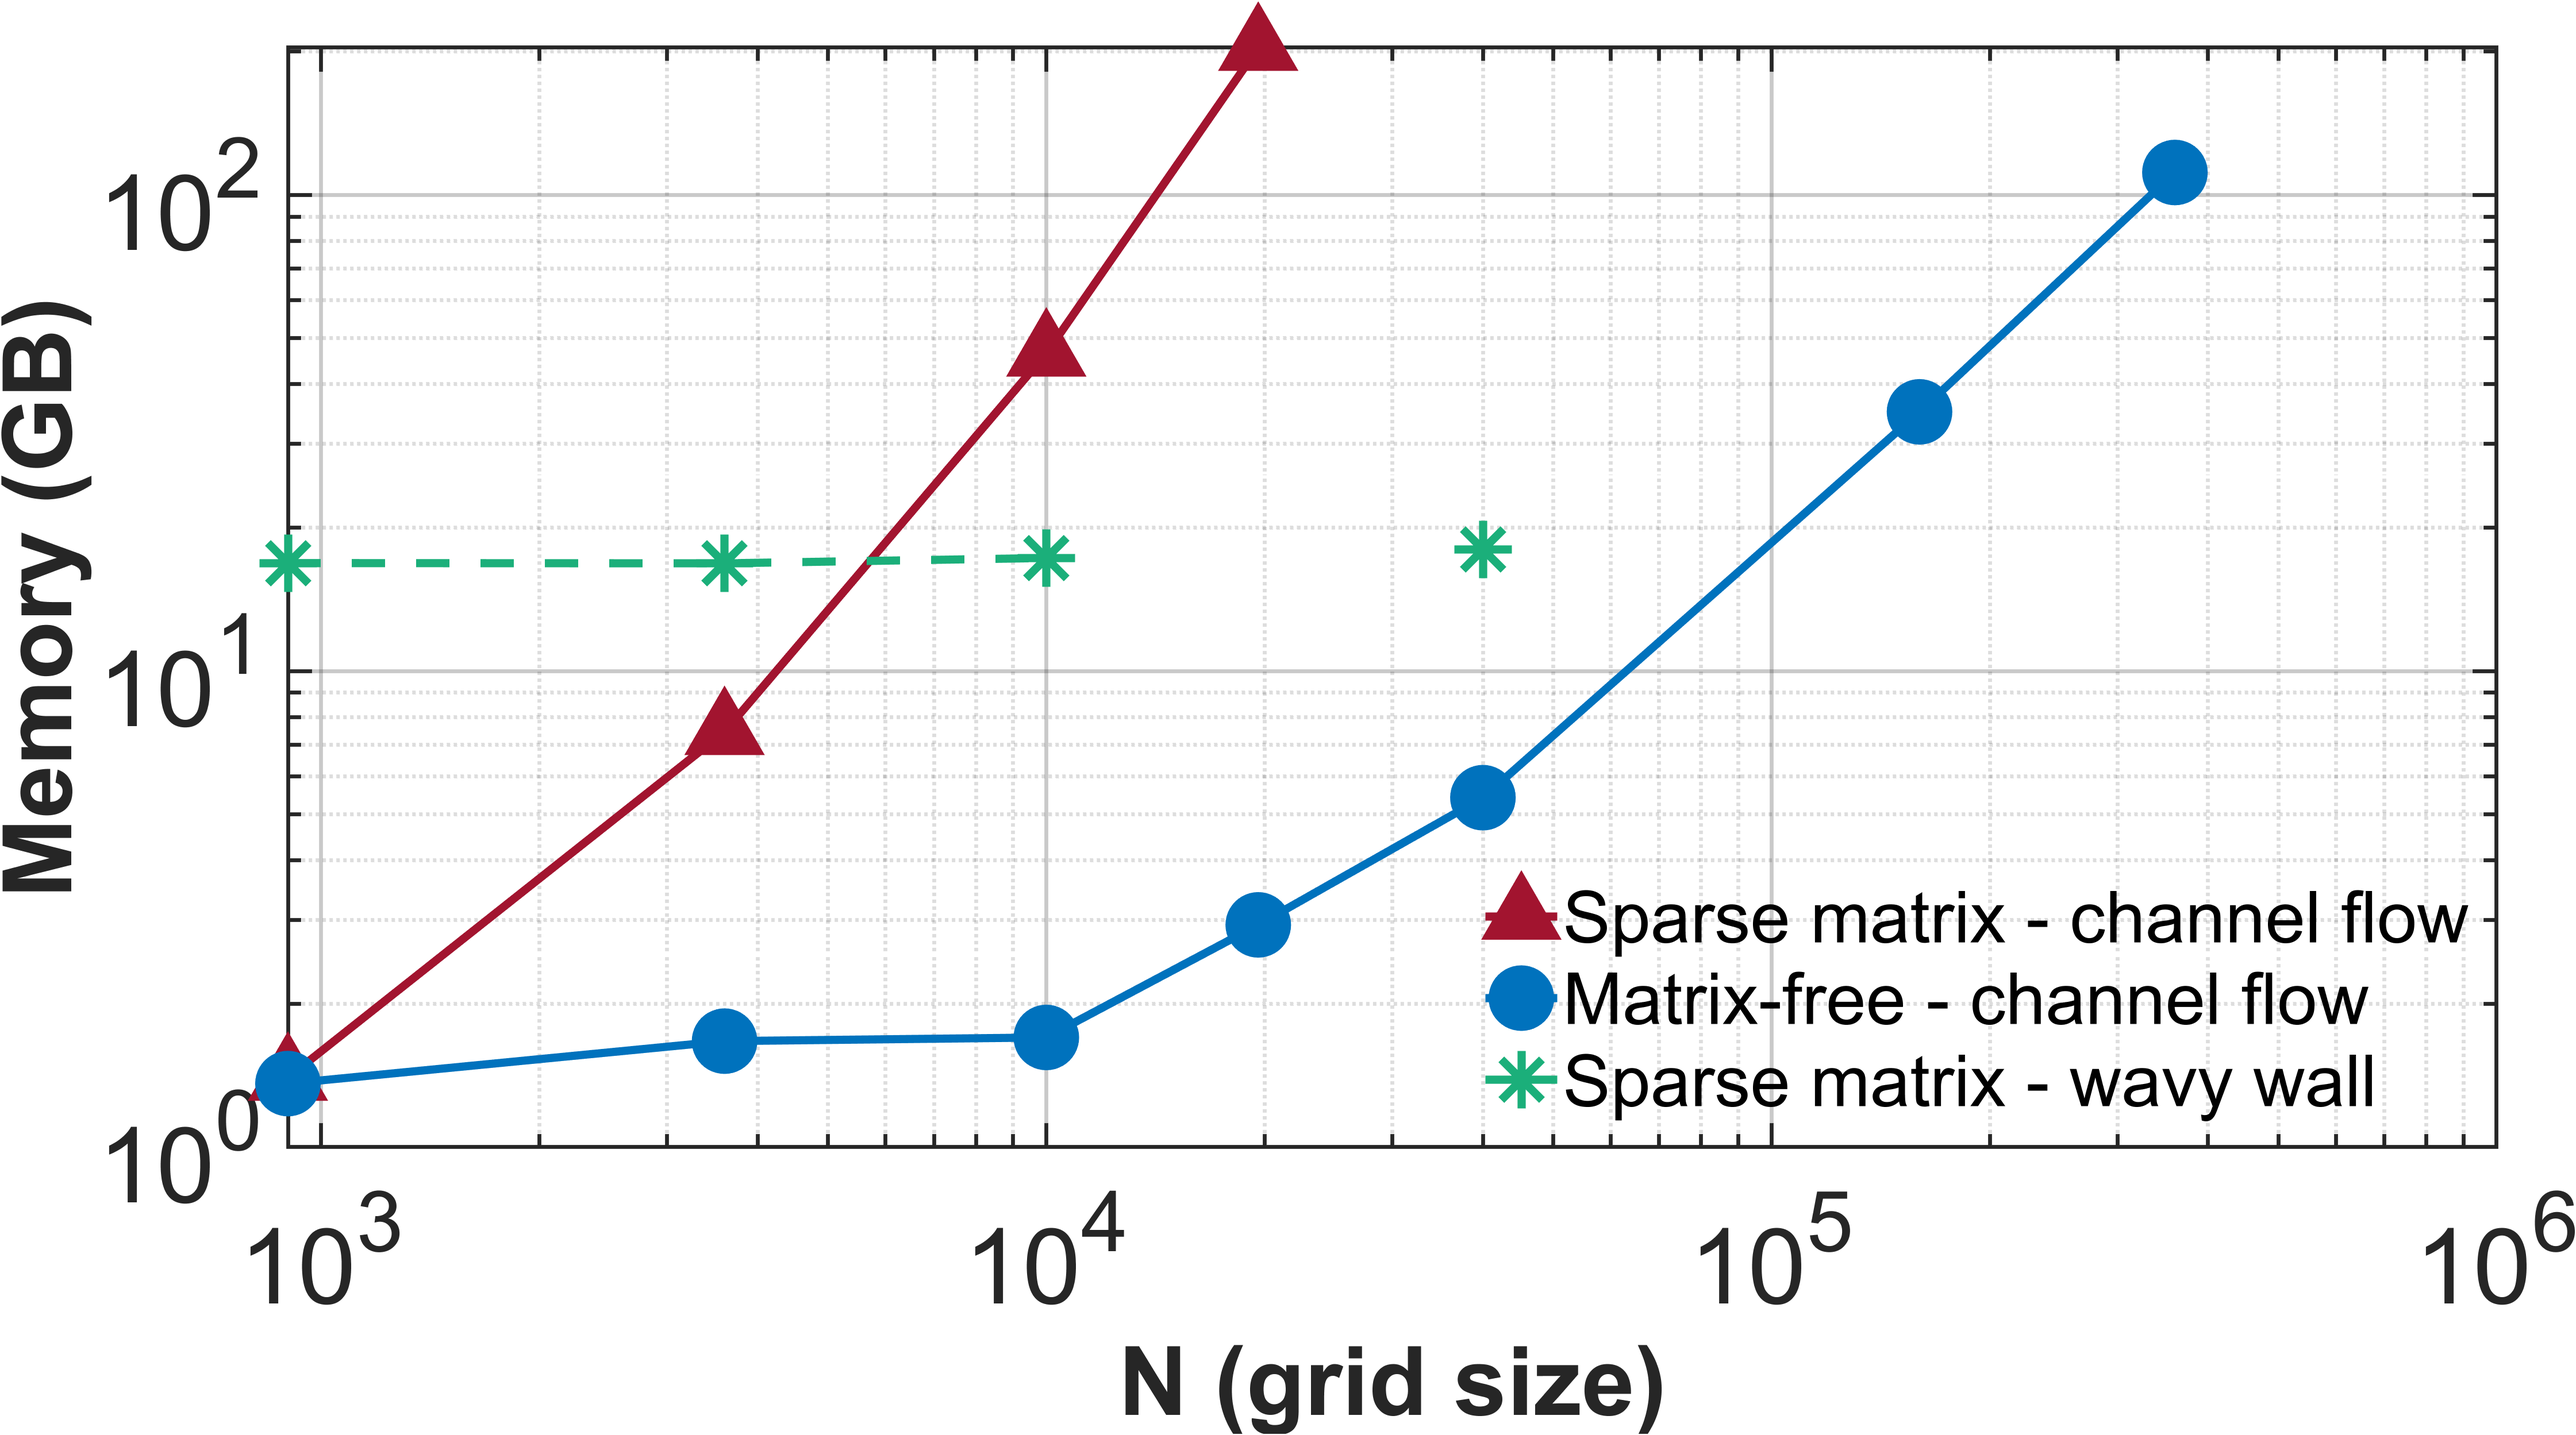
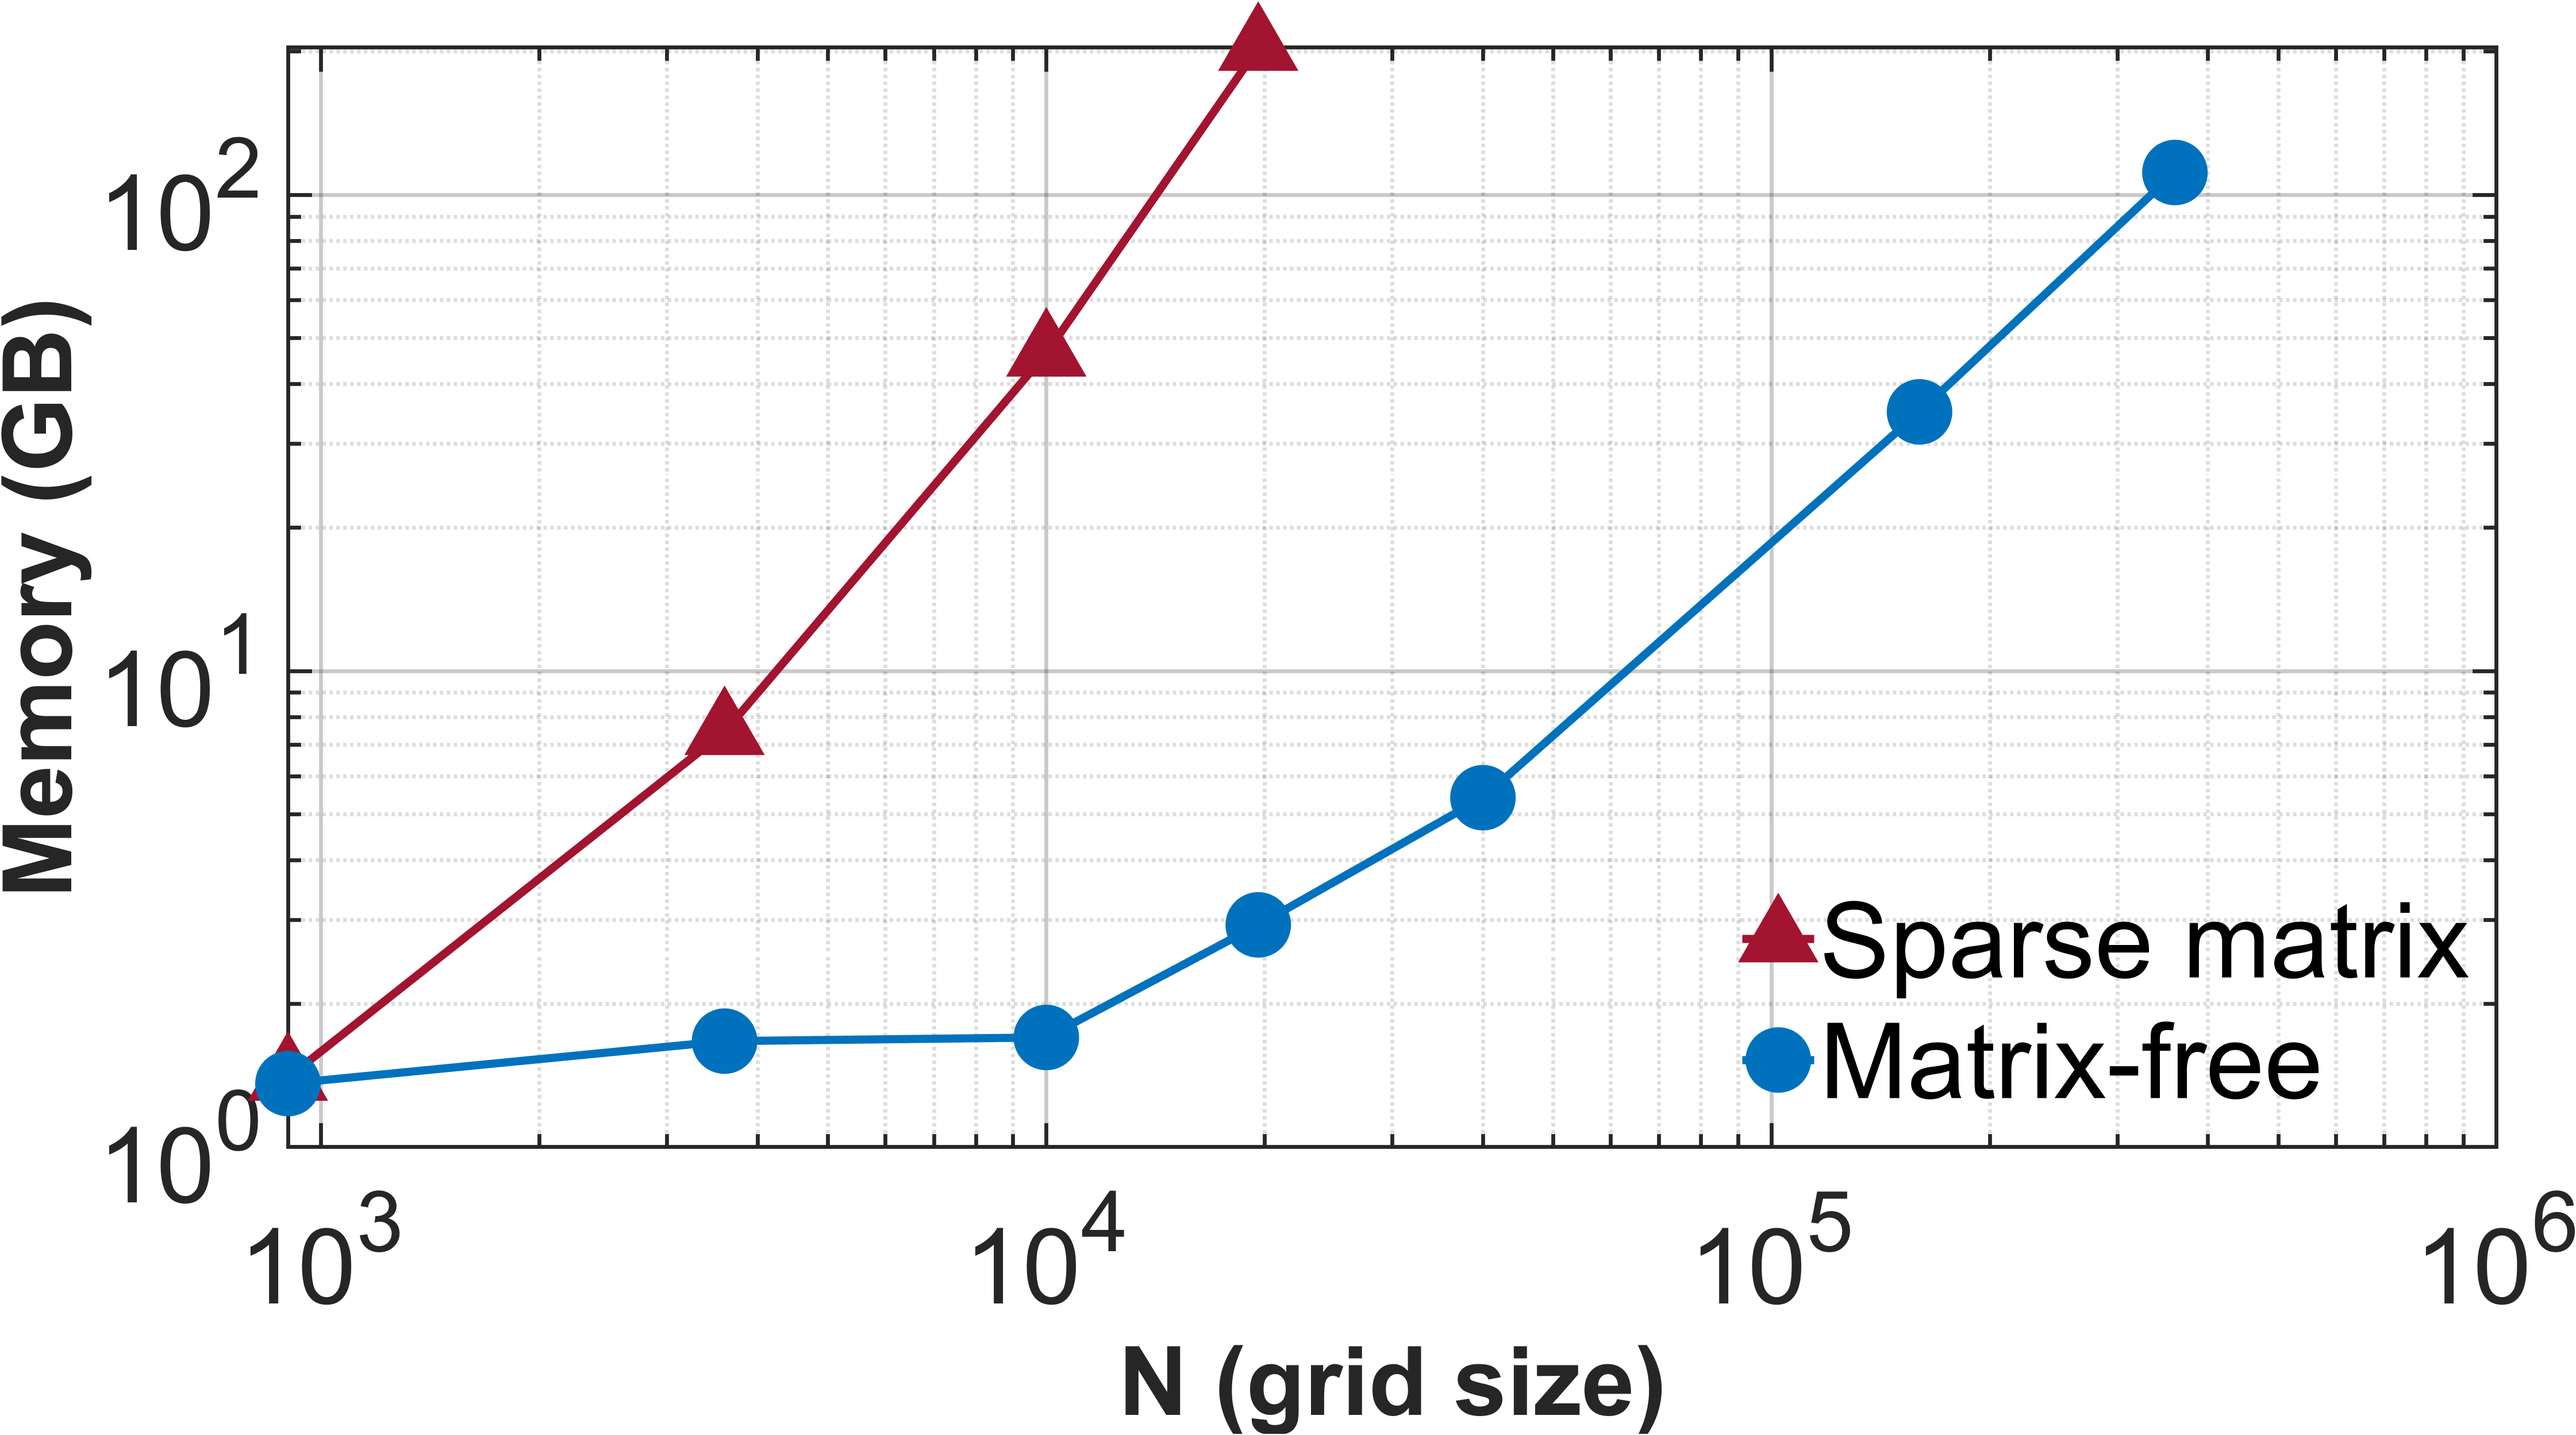
matrix free update

diff --git a/figure 4/output_figure_4_channelflow_cpu_time.m b/figure 4/output_figure_4_channelflow_cpu_time.m
@@ -11,14 +11,13 @@ LW       = 3.4;    % line width (also sets marker edge width in MATLAB)
 MS       = 24;     % marker size
 FS_LABEL = 40;      % axis label font size
 FS_TICK  = 44;      % tick label font size
-FS_LEG   = 30;      % legend font size
+FS_LEG   = 44;      % legend font size
 
 % Your colors
 C_MF_CF = [0 0.4470 0.7410];      % blue
 %C_LP_CF = [0.8500 0.3250 0.0980]; % orange
 C_SP_CF = [0.6350 0.0780 0.1840]; % red
 C_LP_CF = [0.1059 0.6863 0.4784];   % teal/green
-
 
 %% ---- Series masks ----
 idx_mf_cf = strcmp(T.MatrixFree_sparseMatrix,'matrix free') & strcmp(T.Channelflow_WavyWall,'Channel flow');
@@ -42,14 +41,10 @@ h_mf_cf = loglog(ax, T.N(idx_mf_cf), T.CPU_sec_(idx_mf_cf), 'o-', ...
     'LineWidth', LW, 'MarkerSize', MS);
 
 % Laplacian preconditioner -- channel flow: open square, dashed line
-h_lp_cf = loglog(ax, T.N(idx_lp_cf), T.CPU_sec_(idx_lp_cf), '*--', ...
-    'Color', C_LP_CF, 'MarkerFaceColor', 'w', 'MarkerEdgeColor', C_LP_CF, ...
-    'LineWidth', LW, 'MarkerSize', MS);
-
-% % Matrix-free -- wavy wall: open square, dashed line
-% h_mf_ww = loglog(ax, T.N(idx_mf_ww), T.memory_GB_(idx_mf_ww), 's--', ...
-%     'Color', C_MF_WW, 'MarkerFaceColor', 'w', 'MarkerEdgeColor', C_MF_WW, ...
+% h_lp_cf = loglog(ax, T.N(idx_lp_cf), T.CPU_sec_(idx_lp_cf), '*--', ...
+%     'Color', C_LP_CF, 'MarkerFaceColor', 'w', 'MarkerEdgeColor', C_LP_CF, ...
 %     'LineWidth', LW, 'MarkerSize', MS);
+
 
 %% ---- Axes formatting ----
 set(ax, 'XScale', 'log', 'YScale', 'log');
@@ -70,9 +65,14 @@ set(ax, 'XTick', xt, 'YTick', yt);
 xlabel(ax, 'N (grid size)', 'FontSize', FS_LABEL, 'FontWeight', 'bold', 'FontName', FONT);
 ylabel(ax, 'CPU time (s)', 'FontSize', FS_LABEL, 'FontWeight', 'bold', 'FontName', FONT);
 
-legend(ax, [h_sp_cf h_mf_cf h_lp_cf], ...
-    {'Sparse matrix - channel flow', 'Matrix-free - channel flow', ...
-     'Sparse matrix - wavy wall',    'Matrix-free - wavy wall'}, ...
+% legend(ax, [h_sp_cf h_mf_cf h_lp_cf], ...
+%     {'Sparse matrix - channel flow', 'Matrix-free - channel flow', ...
+%      'Sparse matrix - wavy wall',    'Matrix-free - wavy wall'}, ...
+%     'Location', 'southeast', 'FontSize', FS_LEG, 'FontName', FONT, 'Box', 'off');
+
+
+legend(ax, [h_sp_cf h_mf_cf], ...
+    {'Sparse matrix', 'Matrix-free'}, ...
     'Location', 'southeast', 'FontSize', FS_LEG, 'FontName', FONT, 'Box', 'off');
 
 %% ---- Export (raster for slides/preview, vector for LaTeX) ----
@@ -84,6 +84,6 @@ hold on
 %% ---- Series masks ----
 idx_mf_cf = strcmp(T.MatrixFree_sparseMatrix,'matrix free') & strcmp(T.Channelflow_WavyWall,'Channel flow');
 idx_sp_cf = strcmp(T.MatrixFree_sparseMatrix,'sparse matrix') & strcmp(T.Channelflow_WavyWall,'Channel flow');
-idx_lp_cf = strcmp(T.MatrixFree_sparseMatrix,'laplacian') & strcmp(T.Channelflow_WavyWall,'Channel flow');
+%idx_lp_cf = strcmp(T.MatrixFree_sparseMatrix,'laplacian') & strcmp(T.Channelflow_WavyWall,'Channel flow');
  
 close all;

diff --git a/figure 4/output_figure_4_channelflow.m b/figure 4/output_figure_4_channelflow.m
@@ -11,7 +11,7 @@ LW       = 3.4;    % line width (also sets marker edge width in MATLAB)
 MS       = 24;     % marker size
 FS_LABEL = 40;      % axis label font size
 FS_TICK  = 44;      % tick label font size
-FS_LEG   = 30;      % legend font size
+FS_LEG   = 44;      % legend font size
 
 % Your colors
 C_MF_CF = [0 0.4470 0.7410];      % blue
@@ -42,9 +42,9 @@ h_mf_cf = loglog(ax, T.N(idx_mf_cf), T.memory_GB_(idx_mf_cf), 'o-', ...
     'LineWidth', LW, 'MarkerSize', MS);
 
 % Laplacian preconditioner -- channel flow: open square, dashed line
-h_lp_cf = loglog(ax, T.N(idx_lp_cf), T.memory_GB_(idx_lp_cf), '*--', ...
-    'Color', C_LP_CF, 'MarkerFaceColor', 'w', 'MarkerEdgeColor', C_LP_CF, ...
-    'LineWidth', LW, 'MarkerSize', MS);
+% h_lp_cf = loglog(ax, T.N(idx_lp_cf), T.memory_GB_(idx_lp_cf), '*--', ...
+%     'Color', C_LP_CF, 'MarkerFaceColor', 'w', 'MarkerEdgeColor', C_LP_CF, ...
+%     'LineWidth', LW, 'MarkerSize', MS);
 
 % % Matrix-free -- wavy wall: open square, dashed line
 % h_mf_ww = loglog(ax, T.N(idx_mf_ww), T.memory_GB_(idx_mf_ww), 's--', ...
@@ -70,11 +70,14 @@ set(ax, 'XTick', xt, 'YTick', yt);
 xlabel(ax, 'N (grid size)', 'FontSize', FS_LABEL, 'FontWeight', 'bold', 'FontName', FONT);
 ylabel(ax, 'Memory (GB)', 'FontSize', FS_LABEL, 'FontWeight', 'bold', 'FontName', FONT);
 
-legend(ax, [h_sp_cf h_mf_cf h_lp_cf], ...
-    {'Sparse matrix - channel flow', 'Matrix-free - channel flow', ...
-     'Sparse matrix - wavy wall',    'Matrix-free - wavy wall'}, ...
-    'Location', 'southeast', 'FontSize', FS_LEG, 'FontName', FONT, 'Box', 'off');
+% legend(ax, [h_sp_cf h_mf_cf h_lp_cf], ...
+%     {'Sparse matrix - channel flow', 'Matrix-free - channel flow', ...
+%      'Sparse matrix - wavy wall',    'Matrix-free - wavy wall'}, ...
+%     'Location', 'southeast', 'FontSize', FS_LEG, 'FontName', FONT, 'Box', 'off');
 
+legend(ax, [h_sp_cf h_mf_cf], ...
+    {'Sparse matrix', 'Matrix-free'}, ...
+    'Location', 'southeast', 'FontSize', FS_LEG, 'FontName', FONT, 'Box', 'off');
 %% ---- Export (raster for slides/preview, vector for LaTeX) ----
 exportgraphics(fig1, 'figure 4a.png', 'Resolution', 300);
 %exportgraphics(fig1, 'memory_vs_N_paper.pdf', 'ContentType', 'vector');
@@ -84,6 +87,6 @@ hold on
 %% ---- Series masks ----
 idx_mf_cf = strcmp(T.MatrixFree_sparseMatrix,'matrix free') & strcmp(T.Channelflow_WavyWall,'Channel flow');
 idx_sp_cf = strcmp(T.MatrixFree_sparseMatrix,'sparse matrix') & strcmp(T.Channelflow_WavyWall,'Channel flow');
-idx_lp_cf = strcmp(T.MatrixFree_sparseMatrix,'laplacian') & strcmp(T.Channelflow_WavyWall,'Channel flow');
+%idx_lp_cf = strcmp(T.MatrixFree_sparseMatrix,'laplacian') & strcmp(T.Channelflow_WavyWall,'Channel flow');
  
 close all;

diff --git a/figure 8/output_figure_8_wavywall_cputime.m b/figure 8/output_figure_8_wavywall_cputime.m
@@ -78,7 +78,7 @@ ylabel(ax, 'CPU time (s)', 'FontSize', FS_LABEL, 'FontWeight', 'bold', 'FontName
 %     'Location', 'southeast', 'FontSize', FS_LEG, 'FontName', FONT, 'Box', 'off');
 
 legend(ax, [h_sp_ww h_mf_ww], ...
-    {'Sparse matrix - wavy wall',    'Matrix-free - wavy wall'}, ...
+    {'Sparse matrix',    'Matrix-free'}, ...
     'Location', 'southeast', 'FontSize', FS_LEG, 'FontName', FONT, 'Box', 'off');
 
 %% ---- Export (raster for slides/preview, vector for LaTeX) ----

diff --git a/figure 8/output_figure_8_wavywall_memory.m b/figure 8/output_figure_8_wavywall_memory.m
@@ -79,7 +79,7 @@ ylabel(ax, 'Memory (GB)', 'FontSize', FS_LABEL, 'FontWeight', 'bold', 'FontName'
 %     'Location', 'southeast', 'FontSize', FS_LEG, 'FontName', FONT, 'Box', 'off');
 
 legend(ax, [h_sp_ww h_mf_ww], ...
-    {'Sparse matrix - wavy wall',    'Matrix-free - wavy wall'}, ...
+    {'Sparse matrix',    'Matrix-free'}, ...
     'Location', 'southeast', 'FontSize', FS_LEG, 'FontName', FONT, 'Box', 'off');
 
 %% ---- Export (raster for slides/preview, vector for LaTeX) ----

diff --git a/figure 4/output_figure_4.m b/figure 4/output_figure_4.m
@@ -19,7 +19,6 @@ C_LP_WW = [0.8500 0.3250 0.0980]; % orange
 C_SP_CF = [0.6350 0.0780 0.1840]; % red
 C_SP_WW = [0.1059 0.6863 0.4784];   % teal/green
 
-
 %% ---- Series masks ----
 idx_mf_cf = strcmp(T.MatrixFree_sparseMatrix,'matrix free') & strcmp(T.Channelflow_WavyWall,'Channel flow');
 idx_mf_ww = strcmp(T.MatrixFree_sparseMatrix,'matrix free') & strcmp(T.Channelflow_WavyWall,'Wavy wall');
